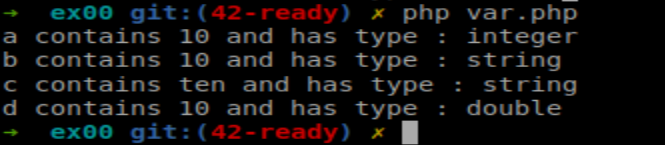
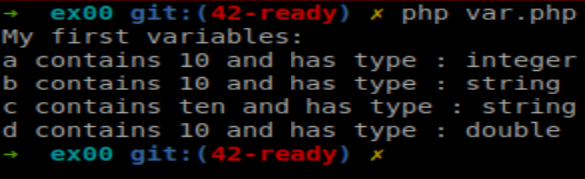
PHP00/PHP01 rédaction de README

diff --git a/Day-01/ex00/var.php b/Day-01/ex00/var.php
@@ -3,6 +3,7 @@
 	$b = "10";
     $c = "ten";
     $d = 10.0;
+    echo "My first variables:" . PHP_EOL;
     echo "a contains " . $a . " and has type : " . gettype($a) . PHP_EOL;
     echo "b contains " . $b . " and has type : " . gettype($b) . PHP_EOL;
     echo "c contains " . $c . " and has type : " . gettype($c) . PHP_EOL;

diff --git a/README.md b/README.md
@@ -36,13 +36,15 @@ Pour cet exercice, j'ai modifié le code HTML d'une page web existante pour assu
 ![Note finale](images/PHP-00-Success.png)
 
 ## PHP-01 - Introduction à PHP
-Lors de cette seconde journée, j'ai fait pour la première fois du PHP. Le but de cette journée était de découvrir la création et la manipulation de variables, de strings et de tableaux en PHP.
+Lors de cette seconde journée, j'ai fait pour la première fois du PHP. Le but de cette journée était de découvrir la création et la manipulation de variables, de strings et de tableaux en PHP. On y apprend également la manipulation de file descriptors.
 
 ### ex00 - Var
 Dans cet exercice, il faut initialiser 4 variables de types différents et créer un programme qui nous permette d'afficher dynamiquement leur valeur ainsi que leur type. Voici mon résultat : 
 
 ![Affichage de mon résultat résultat](images/PHP-01-ex00.png)
+
 Voici le résultat attendu :
+
 ![Affichage de mon résultat résultat](images/PHP-01-ex00-result.png)
 
 
